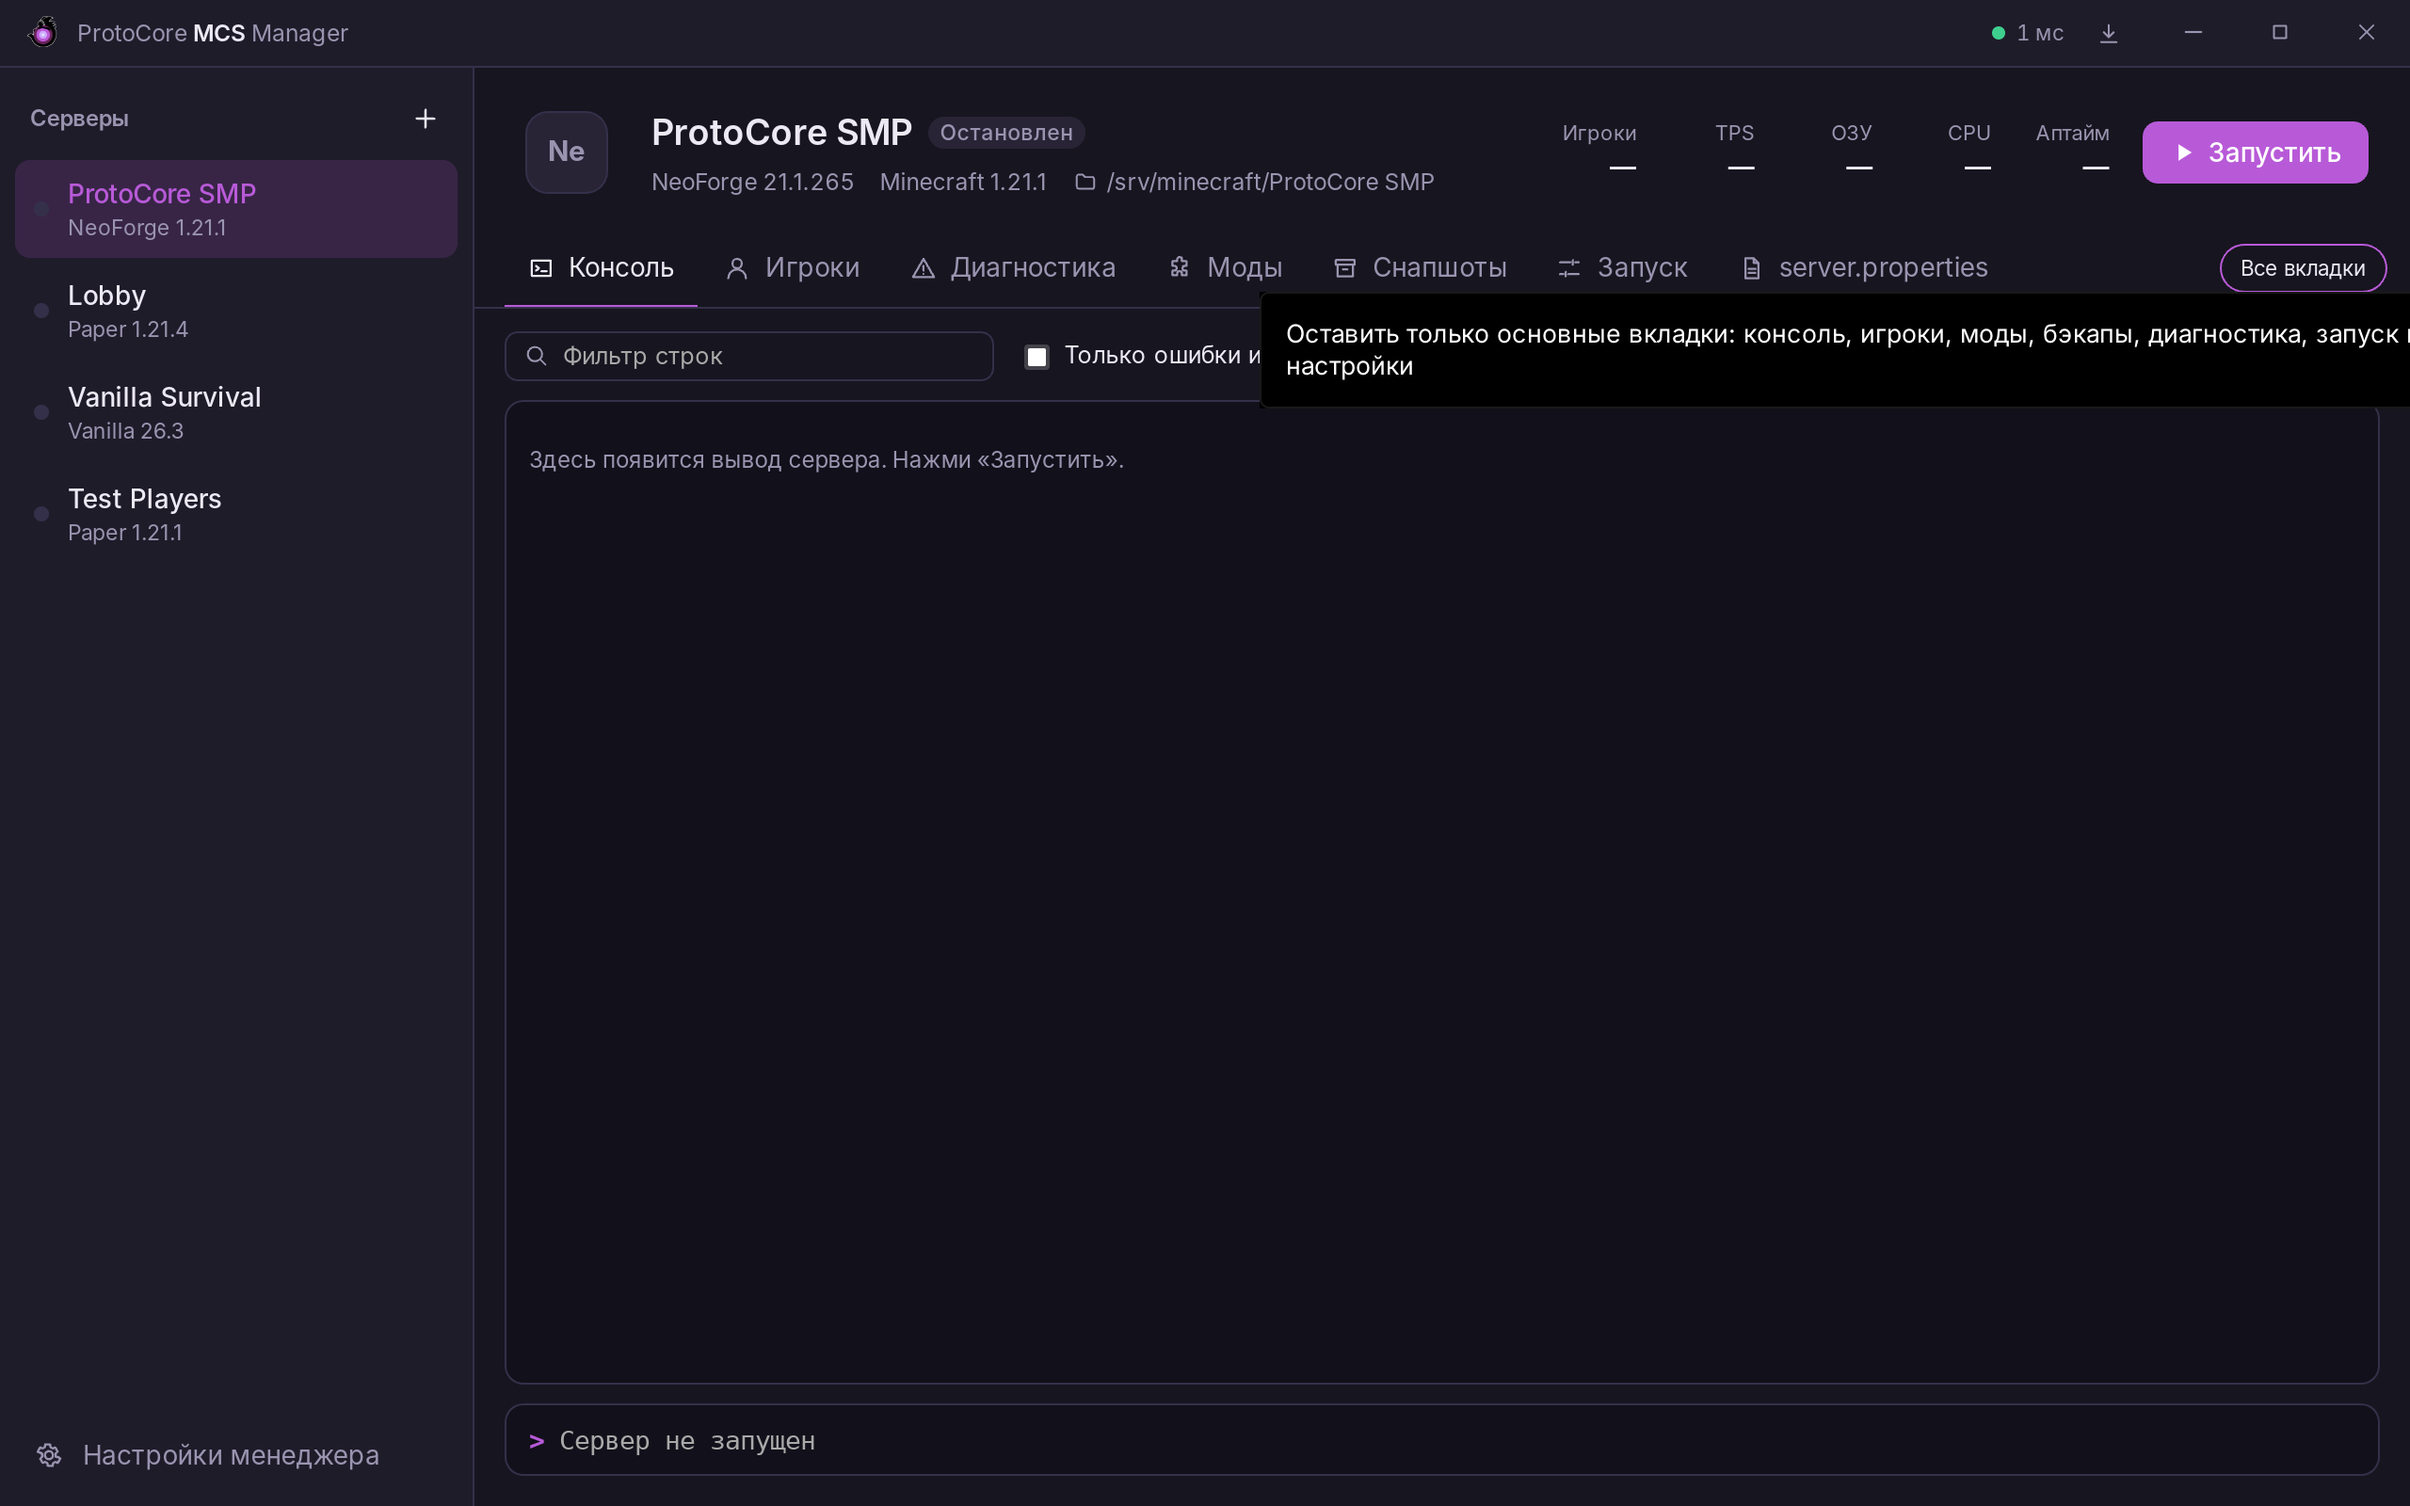
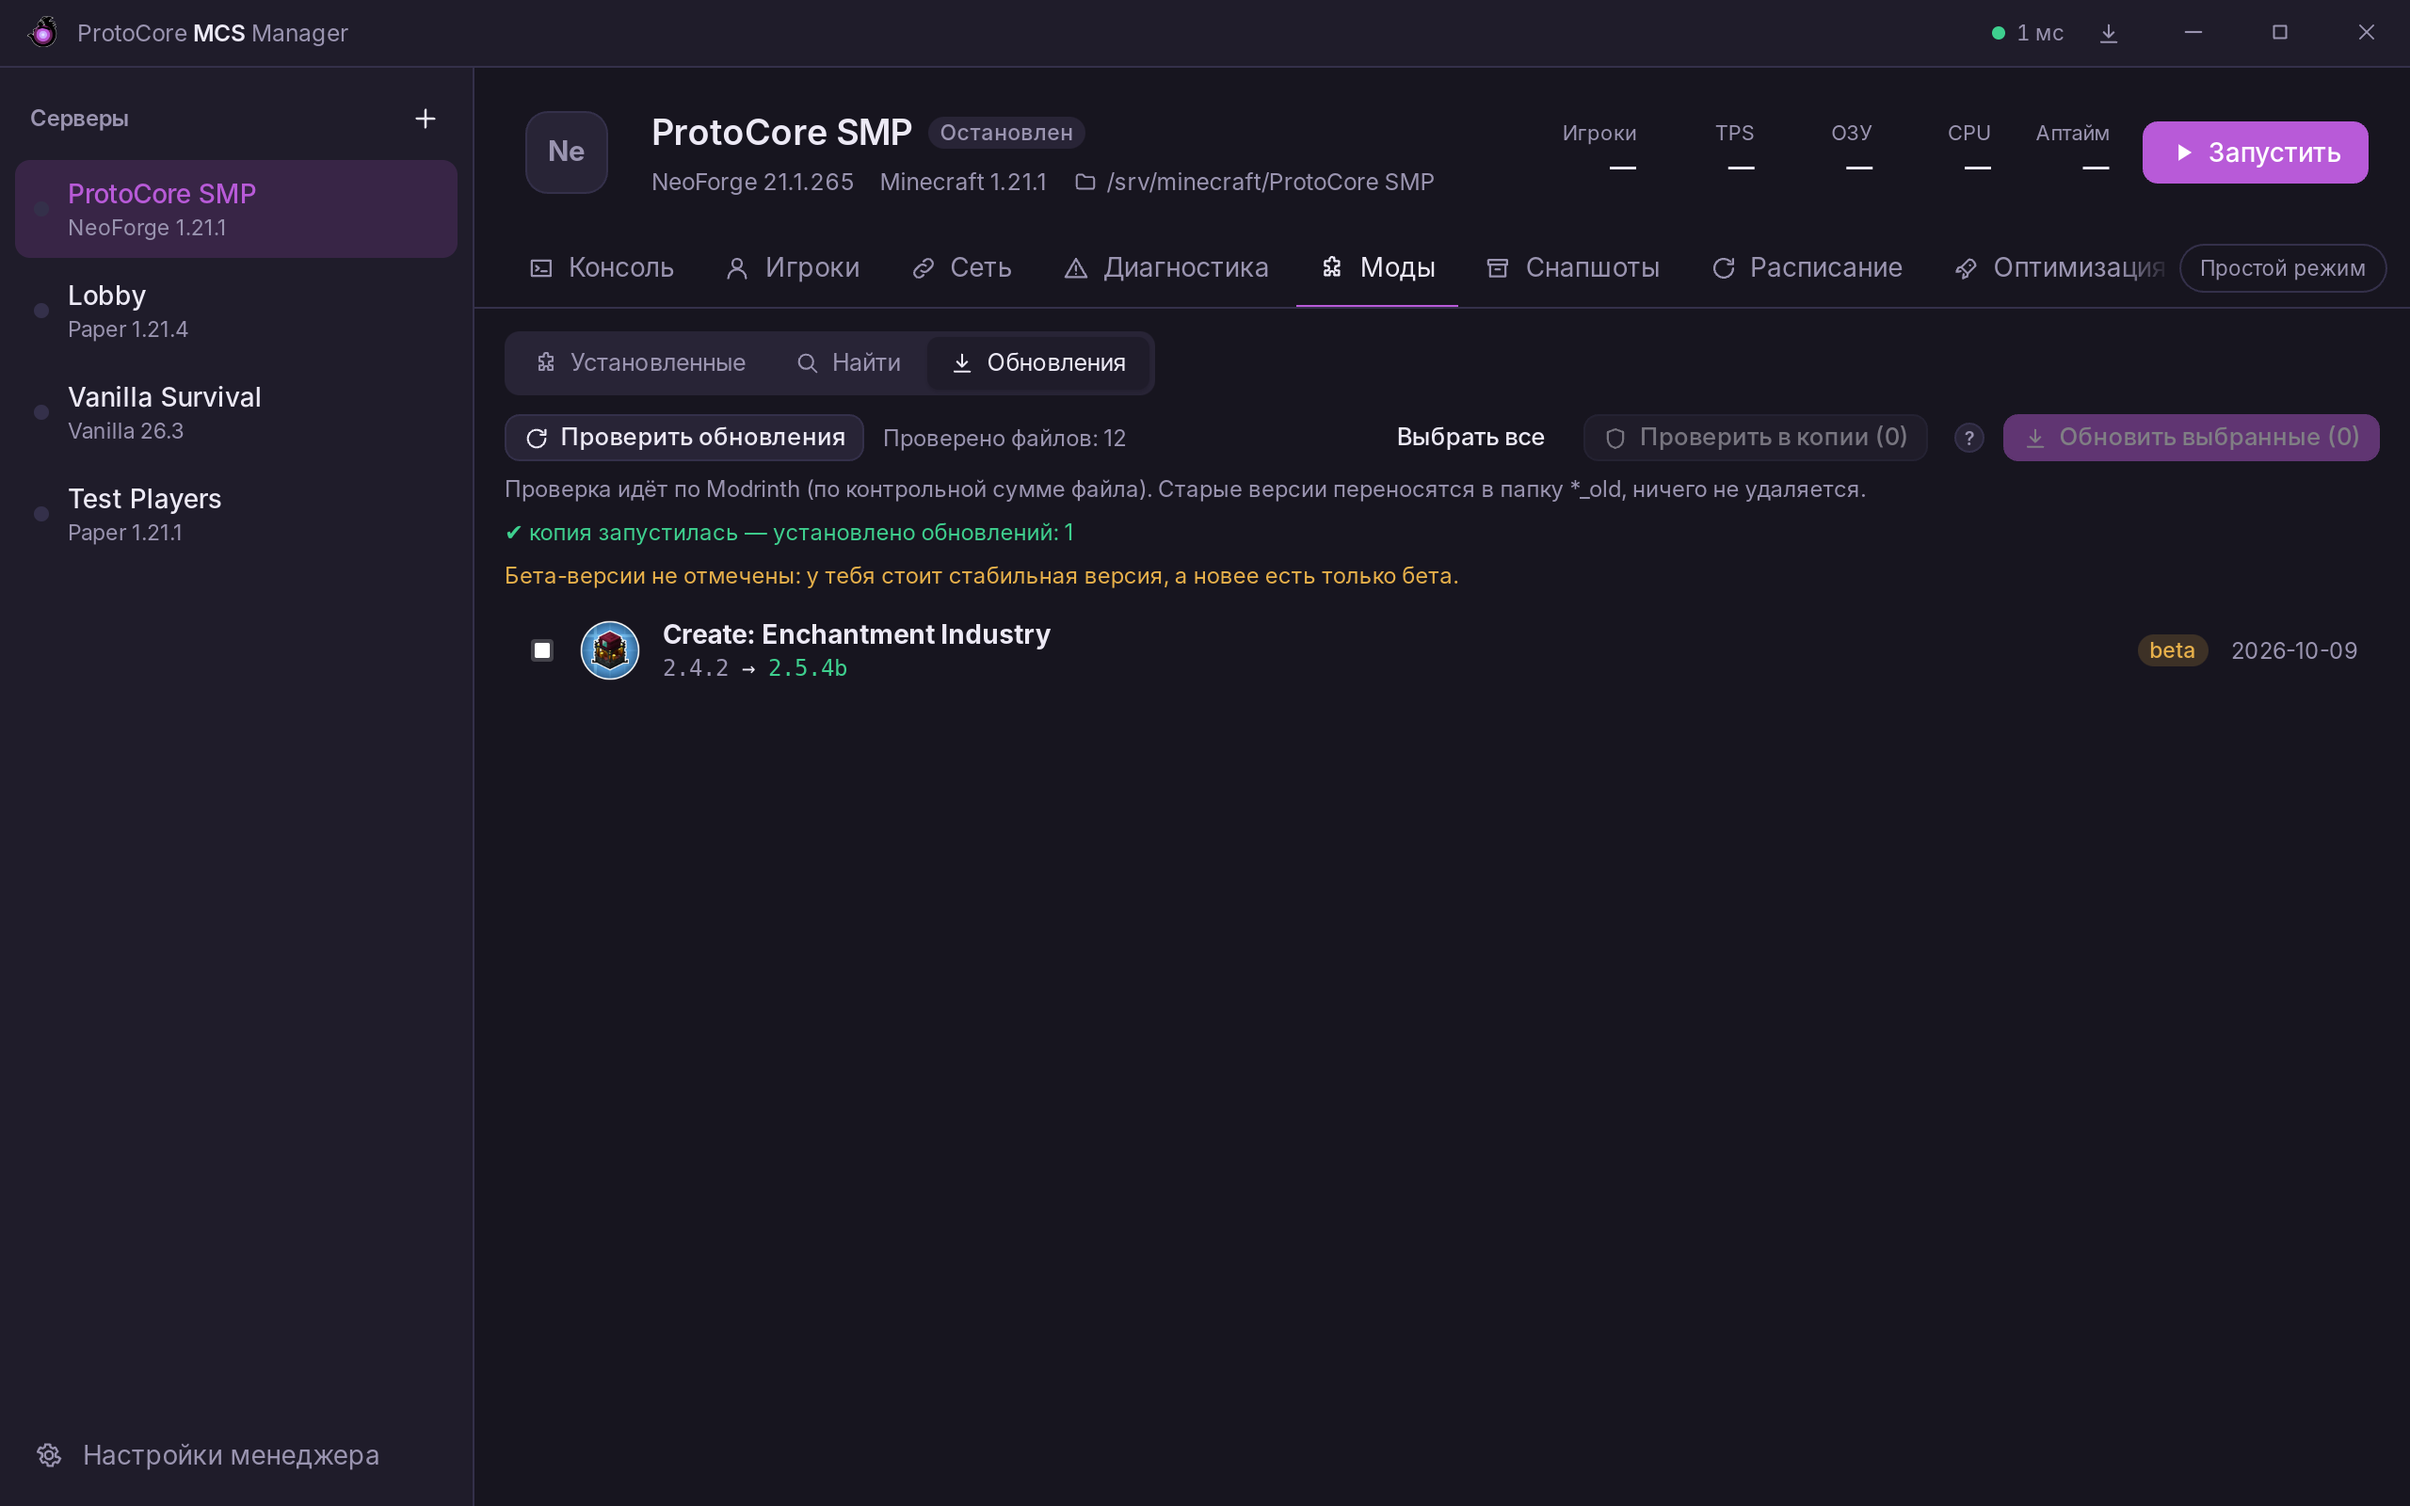
0.5.0: сеть, игроки и уведомления, сборки, продвинутые снапшоты, проверка перед запуском, Java, логи, простой режим
Claude-Session: https://claude.ai/code/session_01UNrTeVoUeGRMKRHy8BjFEn

diff --git a/ui/src/components/tabs/Updates.svelte b/ui/src/components/tabs/Updates.svelte
@@ -90,7 +90,7 @@
   </div>
   <p class="muted small hint">{t("upd.note")}</p>
   {#if testing}
-    <p class="small hint">{app.catalogProgress?.title ? `${t("upd.sbDownloading")} ${app.catalogProgress.title}` : t("upd.sbRunningLong")}</p>
+    <p class="small hint">{app.catalogProgress?.title && app.catalogProgress.done < app.catalogProgress.total ? `${t("upd.sbDownloading")} ${app.catalogProgress.title}` : t("upd.sbRunningLong")}</p>
   {:else if sandbox}
     <p class="small hint" class:warnline={!sandbox.ok} class:okline={sandbox.ok}>{sandbox.ok ? "✔" : "✖"} {sandbox.message}</p>
   {/if}

diff --git a/core/src/launch.rs b/core/src/launch.rs
@@ -211,7 +211,7 @@ mod tests {
             ..Default::default()
         };
         let c = build(&s).unwrap();
-        assert_eq!(c.program, "java");
+        assert!(c.program == "java" || c.program.contains("java"));
         assert!(c.args.contains(&"-Xmx8192M".to_string()));
         assert!(c.args.ends_with(&["-jar".into(), "youer-1.21.1-3068bd4.jar".into(), "nogui".into()]));
     }

diff --git a/CHANGELOG-latest.md b/CHANGELOG-latest.md
@@ -1,13 +1,35 @@
-## ProtoCore-MCS-Manager 0.4.1
+## ProtoCore-MCS-Manager 0.5.0
 
-**Новый облик**
-- Новый логотип ProtoCore: иконка программы, экран загрузки, заголовок окна. В тёмной теме — вариант со светлой обводкой.
-- Акцентный цвет по умолчанию — пурпурный из логотипа (прежний остался в палитре).
-- Путь к серверу в шапке больше не обрезается — переносится на отдельную строку.
+**Подключение и сеть**
+- Новая вкладка «Сеть»: график потерь и задержки интернета за минуту, 10 минут и час — видно, лагает сервер или интернет. Пинг всегда виден в заголовке окна.
+- Блок «Как к тебе подключиться»: адрес для локальной сети и для интернета в один клик, проверка, открыт ли порт снаружи, открытие порта через UPnP, распознавание «серого» IP (CGNAT) с подсказкой про туннель playit.gg.
 
-**Исправления (найдены на живом сервере с реальными модами)**
-- Sodium и подобные моды теперь распознаются как точно клиентские и убираются перед запуском. Раньше они считались «вероятно клиентскими» и роняли сервер ошибкой `NoClassDefFoundError: org/lwjgl/Version`.
-- Диагностика и автокарантин узнают краши из-за графических классов (`org.lwjgl`, `com.mojang.blaze3d`) и понимают стектрейсы модульного формата NeoForge (`at LAYER SERVICE/sodium_service@…`) — виновник находится «точно».
-- Ложная ошибка «не та версия JEI»: библиотеки-обёртки (mezz_config-standalone и т. п.) читаются правильно, а вложенные копии модов больше не путаются с самим модом.
-- TPS при установленном spark показывался неверно (1.0 вместо 20), а часть ответа spark попадала в консоль.
-- Несовместимости, указанные только для клиента, больше не показываются как конфликт на сервере.
+**Игроки и уведомления**
+- Вкладка «Игроки»: кто онлайн, сколько наиграл, когда заходил; OP, белый список, кик и бан кнопками; возможные твинки (общий IP); чат и журнал команд (кто что вводил — консоль, бот, расписание).
+- Уведомления в Telegram и Discord: падение, запуск/остановка, низкий TPS, мало места на диске, сбой бэкапа, плохой интернет, заход игрока.
+- Telegram-бот: `/status`, `/players`, `/run`, `/stop`, `/restart`, `/backup`, `/say`. Отвечает только твоему чату.
+
+**Сборки**
+- Новый сервер из сборки: `.mrpack` (Modrinth) или zip CurseForge — моды скачиваются сами, клиентские пропускаются.
+- «Сборка для игроков» во вкладке «Моды»: экспорт `.mrpack` с теми же модами — друзьям остаётся открыть его в лаунчере.
+
+**Снапшоты**
+- Просмотр файлов внутри снапшота и восстановление одного файла или папки: «рядом» (в `restored/`) или «на место» (с защитным снапшотом). Файлы игроков в `playerdata` подписаны никами.
+- «Что изменилось» — список добавленных, удалённых и изменённых файлов между снапшотами.
+- Второе хранилище (правило 3-2-1): копия снапшотов на другой диск, NAS или в облако после каждого ночного бэкапа.
+- Проверка данных снапшотов (выборка 5%) — вручную и раз в неделю автоматически; при ошибке приходит уведомление.
+- Журнал изменений: кто и когда менял моды, ядро, настройки, откатывал снапшоты — чтобы понять, после чего начались проблемы.
+
+**Запуск без сюрпризов**
+- Проверка перед запуском: занятый порт, мир, открытый другим процессом, неподходящая Java, почти полный диск — запуск отменяется с понятным объяснением, а не падает через минуту.
+- Java: менеджер находит все установленные версии (включая Java из лаунчера Minecraft), сам выбирает подходящую под версию игры и может скачать Eclipse Temurin в один клик.
+- Обновления модов через тестовую копию: обновления ставятся на копию сервера, и только если она запустилась, переносятся в настоящий. Если копия упала — сервер не тронут, причина показана.
+
+**Логи**
+- Поиск по всем логам сервера, включая старые сжатые `.log.gz` и краш-репорты.
+- «Сжать и почистить»: старые логи сжимаются, совсем старые удаляются.
+
+**Для новичков**
+- Простой режим: только основные вкладки. Переключатель — справа от вкладок.
+- Подсказки «?» у сложных настроек: память, флаги JVM, клиентские моды, автокарантин, снапшоты, правило 3-2-1, проброс порта.
+- Строку вкладок можно прокручивать колесом мыши.
